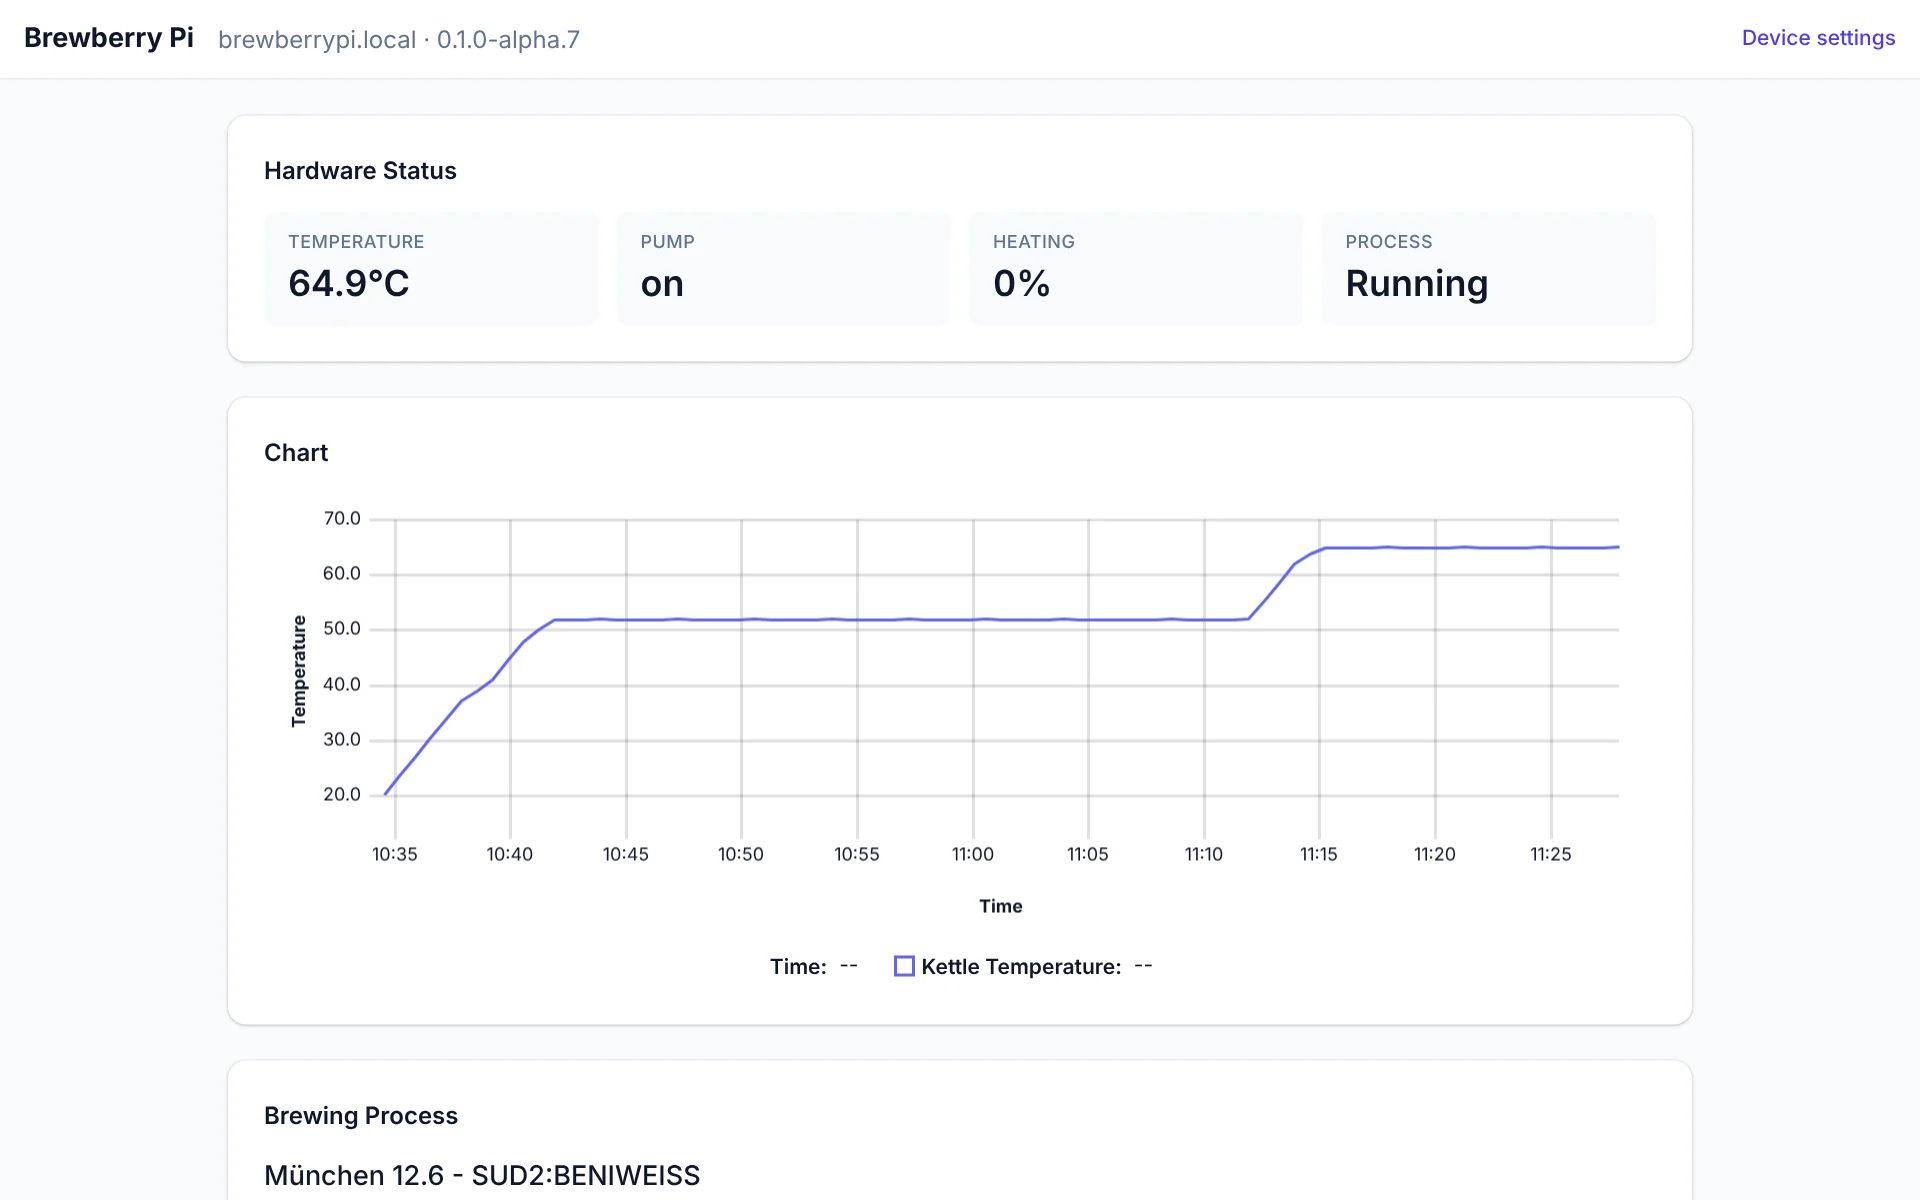
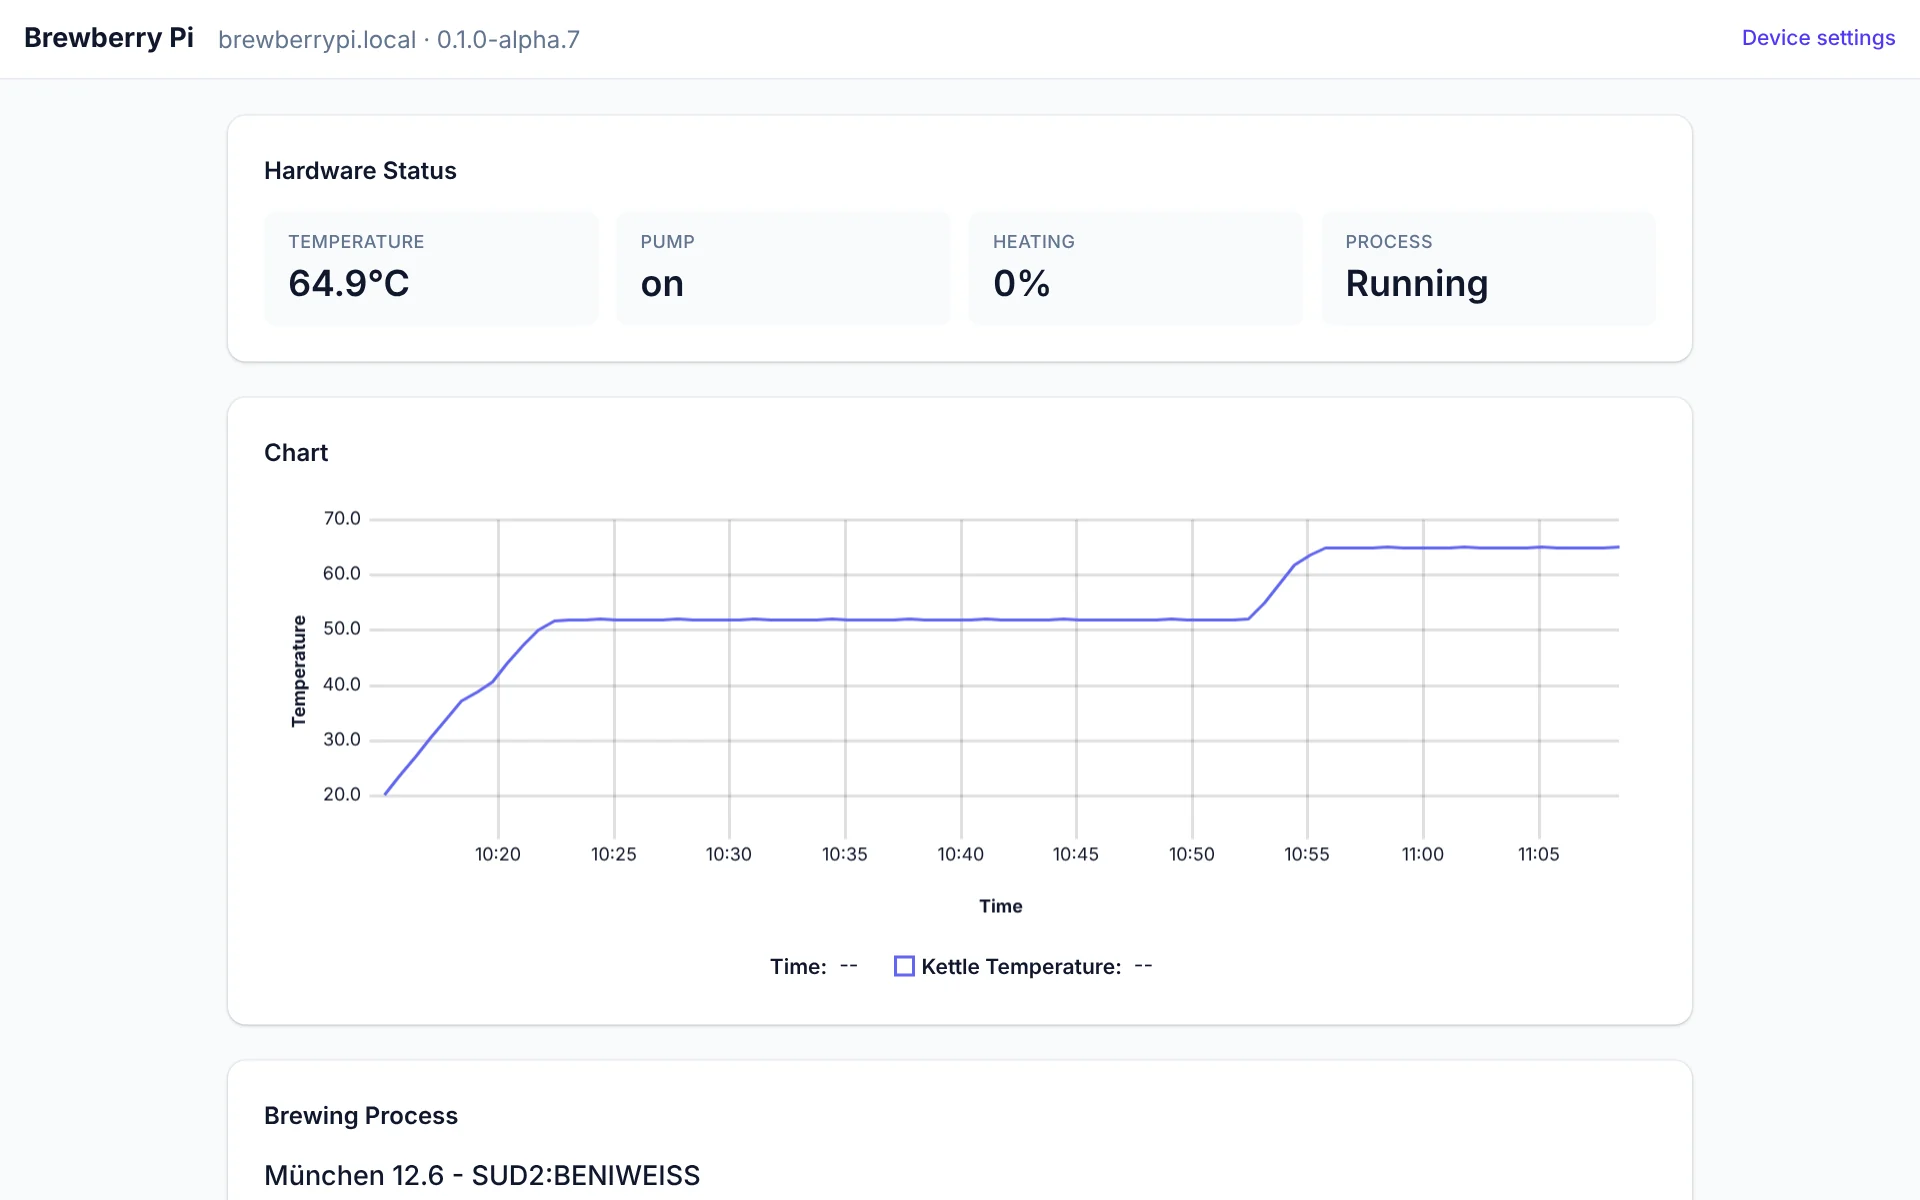
Website: software features merged with "The app", recipe example and file
Section "01 The app" is merged into the features: "It guides you through the
brew", "Live on every screen" (now with the live-status text) and "The whole
curve" are feature cards. "Recipes as step lists" shows a real screenshot of
the app working through the BENIWEISS step mash (new app-process-light.webp
from capture_screens.mjs), and the new card "Easy mash process creation"
shows the recipe as a JSON file. "Simulation mode" and "Your wiring, your
pins" are removed.

Claude-Session: https://claude.ai/code/session_01CFGdCWnQRLXmkcSybAmDGC

diff --git a/site/main.js b/site/main.js
@@ -171,42 +171,43 @@ function renderRecipe(recipe, model) {
 
 // ---------- Features ----------
 // To add a feature, add an entry. size: "wide" spans two columns on large screens. art: an optional
-// illustration (see ART). soon: the muted "more to come" card.
+// illustration (see ART). size "full" spans the whole row. soon: the muted "more to come" card.
 
 const ICONS = {
   list: '<path d="M9 6h11M9 12h11M9 18h11"/><circle cx="4.5" cy="6" r="1"/><circle cx="4.5" cy="12" r="1"/><circle cx="4.5" cy="18" r="1"/>',
   thermo: '<path d="M14 14.8V5a2 2 0 0 0-4 0v9.8a4 4 0 1 0 4 0Z"/><path d="M12 10v7"/>',
   bell: '<path d="M6 16v-5a6 6 0 0 1 12 0v5l1.5 2h-15Z"/><path d="M10 20.5a2 2 0 0 0 4 0"/>',
   devices: '<rect x="2.5" y="4.5" width="13" height="9" rx="1.5"/><path d="M6 17.5h6M9 13.5v4"/><rect x="17.5" y="8.5" width="4" height="11" rx="1"/>',
-  flask: '<path d="M9.5 3h5M10.5 3v6l-5.2 9.1A2 2 0 0 0 7 21h10a2 2 0 0 0 1.7-2.9L13.5 9V3"/><path d="M7.5 15h9"/>',
-  chip: '<rect x="7" y="7" width="10" height="10" rx="1.5"/><path d="M10 3v4M14 3v4M10 17v4M14 17v4M3 10h4M3 14h4M17 10h4M17 14h4"/>',
   shield: '<path d="M12 3 20 6v6c0 4.5-3.4 8.3-8 9-4.6-.7-8-4.5-8-9V6Z"/><path d="m8.8 12 2.2 2.2 4.2-4.4"/>',
+  file: '<path d="M14 3H7a2 2 0 0 0-2 2v14a2 2 0 0 0 2 2h10a2 2 0 0 0 2-2V8Z"/><path d="M14 3v5h5M9 13h6M9 17h4"/>',
+  curve: '<path d="M3 20h18"/><path d="M4 17l4-6 3 2 4-7h5"/>',
   spark: '<path d="M12 3v4M12 17v4M3 12h4M17 12h4M6 6l2.5 2.5M15.5 15.5 18 18M6 18l2.5-2.5M15.5 8.5 18 6"/>',
 };
 
 const ART = {
-  steps: '<div class="mini-steps"><span class="y">Add Water</span><span class="h">Heat Up 52°</span><span class="y">Mash In</span><span class="r">Rest 30 min</span><span class="h">Heat Up 65°</span><span class="r">Rest 30 min</span><span class="y">Iodine Test</span><span class="h">78°</span></div>',
+  process: '<div class="mini-shot"><img src="img/app-process-light.webp" width="1464" height="1850" loading="lazy" decoding="async" alt="The app working through the step mash BENIWEISS: the done steps, the active rest with its time left, and the steps still to come"></div>',
+  json: '<figure class="mini-file"><figcaption>recipes/BENIWEISS.json</figcaption><pre>{\n  <b>"name"</b>: <i>"München 12.6 - SUD2:BENIWEISS"</i>,\n  <b>"goals"</b>: [\n    { <b>"type"</b>: <i>"PourInBrewingWater"</i> },\n    { <b>"type"</b>: <i>"HeatUp"</i>, <b>"temperature"</b>: <u>40</u> },\n    { <b>"type"</b>: <i>"MashIn"</i> },\n    { <b>"type"</b>: <i>"HeatUp"</i>, <b>"temperature"</b>: <u>52</u> },\n    { <b>"type"</b>: <i>"Rest"</i>, <b>"temperature"</b>: <u>52</u>, <b>"minutes"</b>: <u>30</u>,\n      <b>"name"</b>: <i>"Eiweißrast"</i> },\n    <s>…</s>\n    { <b>"type"</b>: <i>"IodineTest"</i>, <b>"temperature"</b>: <u>73</u>, <b>"minutes"</b>: <u>10</u> },\n    { <b>"type"</b>: <i>"HeatUp"</i>, <b>"temperature"</b>: <u>78</u> }\n  ]\n}</pre></figure>',
   curve: '<svg class="mini-curve" viewBox="0 0 300 90" preserveAspectRatio="none" aria-hidden="true"><path class="target" d="M0 22H300"/><path d="M0 84C50 80 80 50 110 30S150 22 170 22H300"/></svg>',
   ask: '<div class="mini-ask">Iodine test successfull?<div><span>Yes</span><span>No</span></div></div>',
   devices: '<div class="mini-devices" aria-hidden="true"><i></i><i></i><i></i></div>',
 };
 
 const FEATURES = [
-  { icon: "list", title: "Recipes as step lists", size: "wide", art: "steps",
-    text: "Write your mash schedule once: heat up, rest, mash in, iodine test, lautering, boil. BrewberryPi works through it step by step." },
+  { icon: "list", title: "Recipes as step lists", size: "wide", art: "process",
+    text: "Write your mash schedule once: heat up, rest, mash in, iodine test, lautering, boil. BrewberryPi works through it step by step, like this step mash for a wheat beer." },
+  { icon: "file", title: "Easy mash process creation", size: "wide", art: "json",
+    text: "A recipe is a small JSON file: list the steps with their temperatures and minutes. Drop it into the recipes folder on the Pi's network share, and it shows up in the app within seconds." },
+  { icon: "bell", title: "It guides you through the brew", size: "wide", art: "ask",
+    text: "BrewberryPi heats, holds the rests and runs the pump on its own, and tells you when it's your turn: pour in the water, mash in, do the iodine test. Confirm on any device, and it carries on. A buzzer reminds you until you do." },
   { icon: "thermo", title: "Temperature control", size: "wide", art: "curve",
     text: "Full power to heat up, half power close to the target, then it holds each rest while the pump keeps the mash moving." },
-  { icon: "bell", title: "It asks when it needs you", size: "wide", art: "ask",
-    text: "Water in? Malt in? Iodine test done? The question appears on screen, and a buzzer beeps until somebody answers." },
   { icon: "devices", title: "Live on every screen", art: "devices",
-    text: "Every browser in your network sees the same live state, and any of them can control the brew." },
-  { icon: "flask", title: "Simulation mode",
-    text: "No hardware yet? Run a whole recipe against a simulated kettle, sped up if you like." },
+    text: "Temperature, heater power and pump at a glance, pushed to every browser in your network the moment they change. Any of them can control the brew." },
+  { icon: "curve", title: "The whole curve",
+    text: "A chart of the kettle temperature since the start, so you see each ramp and rest as it happens." },
   { icon: "shield", title: "Safe by design", size: "wide",
     text: "The heater is off whenever it isn't actively controlling temperature. All outputs go off at start-up and on every stop, crash or hang, backed by the systemd and hardware watchdogs." },
-  { icon: "chip", title: "Your wiring, your pins",
-    text: "Pins, relay polarity and the sensor are set in the config, so it fits the relay board you already have." },
-  { icon: "spark", title: "More to come", soon: true,
+  { icon: "spark", title: "More to come", size: "full", soon: true,
     text: "The feature list grows with the project. Have an idea? Open an issue on GitHub." },
 ];
 

diff --git a/site/software.html b/site/software.html
@@ -59,7 +59,7 @@
         <p class="page-head__lead reveal">The brewing app and the operating system it runs on, as one image for the Raspberry Pi. You flash it,
           start the Pi and open the app in your browser.</p>
         <nav class="page-head__toc" aria-label="On this page">
-          <a href="#app">The app</a><a href="#features">Features</a><a href="#recipe">Recipes</a><a href="#os">Under the hood</a>
+          <a href="#features">Features</a><a href="#recipe">Recipes</a><a href="#os">Under the hood</a>
         </nav>
         <div class="showcase reveal">
           <div class="browser">
@@ -83,24 +83,6 @@
       </div>
     </section>
 
-    <!-- The app -->
-    <section class="section" id="app">
-      <div class="wrap">
-        <header class="section__head reveal">
-          <p class="eyebrow">The app</p>
-          <h2>Your brew day,<br><span class="hl">live in the browser.</span></h2>
-          <p class="section__lead">Temperature, heater, pump, the curve so far and every step of the recipe on one page.</p>
-        </header>
-
-        <ul class="callouts">
-          <li class="reveal"><span class="callout__num">01</span><h3>Live status</h3><p>Temperature, heater power and pump at a glance, pushed to every open screen the moment they change.</p></li>
-          <li class="reveal"><span class="callout__num">02</span><h3>The whole curve</h3><p>A chart of the kettle temperature since the start, so you see each ramp and rest as it happens.</p></li>
-          <li class="reveal"><span class="callout__num">03</span><h3>It guides you through the brew</h3><p>Step by step through your recipe: BrewberryPi heats, holds the rests and runs the pump on its own, and tells you when it's your turn: pour in the water, mash in, do the iodine test. Confirm on any device, and it carries on. A buzzer reminds you until you do.</p></li>
-        </ul>
-
-      </div>
-    </section>
-
     <!-- Features -->
     <section class="section" id="features">
       <div class="wrap">
@@ -112,8 +94,8 @@
         <div class="bento" id="feature-grid">
           <noscript>
             <ul class="feature-list">
-              <li>Recipes as step lists</li><li>Temperature control</li><li>It asks when it needs you</li>
-              <li>Live on every screen</li><li>Simulation mode</li><li>Safe by design</li><li>Your wiring, your pins</li>
+              <li>Recipes as step lists</li><li>Easy mash process creation</li><li>It guides you through the brew</li>
+              <li>Temperature control</li><li>Live on every screen</li><li>The whole curve</li><li>Safe by design</li>
             </ul>
           </noscript>
         </div>

diff --git a/site/styles.css b/site/styles.css
@@ -223,6 +223,7 @@ main { counter-reset: section; }
 
 .bento { display: grid; grid-template-columns: 1fr; gap: 1px; background: var(--line); border: 1px solid var(--line); border-radius: var(--radius); overflow: hidden; }
 @media (min-width: 640px) { .bento { grid-template-columns: repeat(2, 1fr); } }
+@media (min-width: 640px) { .feature--full { grid-column: 1 / -1; } }
 @media (min-width: 1000px) { .bento { grid-template-columns: repeat(4, 1fr); grid-auto-flow: dense; } .feature--wide { grid-column: span 2; } }
 .feature { display: flex; flex-direction: column; gap: .6rem; padding: 1.5rem; background: var(--surface); border: 0; border-radius: 0; transition: background-color .2s; }
 .feature:hover { background: #fdfcfb; }
@@ -236,6 +237,18 @@ main { counter-reset: section; }
 .feature--soon h3 { color: var(--muted); }
 .feature-list { columns: 2; color: var(--muted); }
 
+/* A cut-out of a real app screenshot, fading out at the bottom. */
+.mini-shot { position: relative; height: 260px; overflow: hidden; border: 1px solid var(--line); border-radius: 8px; background: #fff; }
+.mini-shot img { display: block; width: 100%; height: 100%; object-fit: cover; object-position: 50% 42%; }
+.mini-shot::after { content: ""; position: absolute; inset: auto 0 0; height: 48px; background: linear-gradient(transparent, #fff); }
+/* A recipe file, shown like a code editor. */
+.mini-file { margin: 0; overflow: hidden; border-radius: 8px; background: #1c1719; color: #f1e8eb; }
+.mini-file figcaption { padding: .45rem .8rem; border-bottom: 1px solid rgba(241, 232, 235, .12); font: .72rem var(--font-mono); color: #a8979e; }
+.mini-file pre { margin: 0; padding: .8rem; overflow-x: auto; font: .72rem/1.55 var(--font-mono); }
+.mini-file b { font-weight: 400; color: var(--pink); }
+.mini-file i { font-style: normal; color: #8fc77f; }
+.mini-file u { text-decoration: none; color: #e9b04f; }
+.mini-file s { text-decoration: none; color: #a8979e; }
 .mini-steps { display: flex; flex-wrap: wrap; gap: .35rem; }
 .mini-steps span { padding: .25rem .55rem; border: 1px solid var(--line-2); border-left: 3px solid var(--c); border-radius: 4px; font: .74rem var(--font-mono); }
 .mini-steps .h { --c: var(--brass); }
